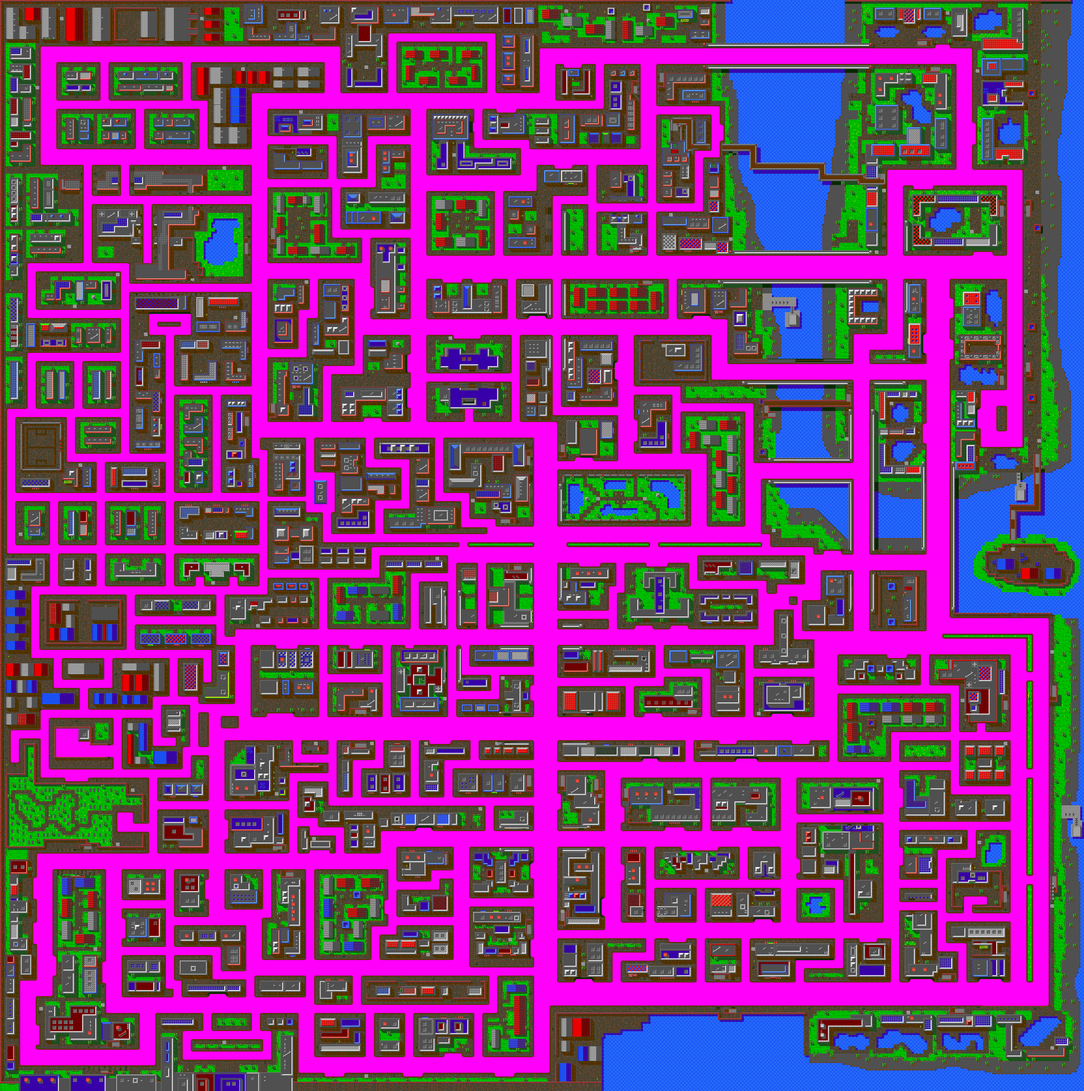
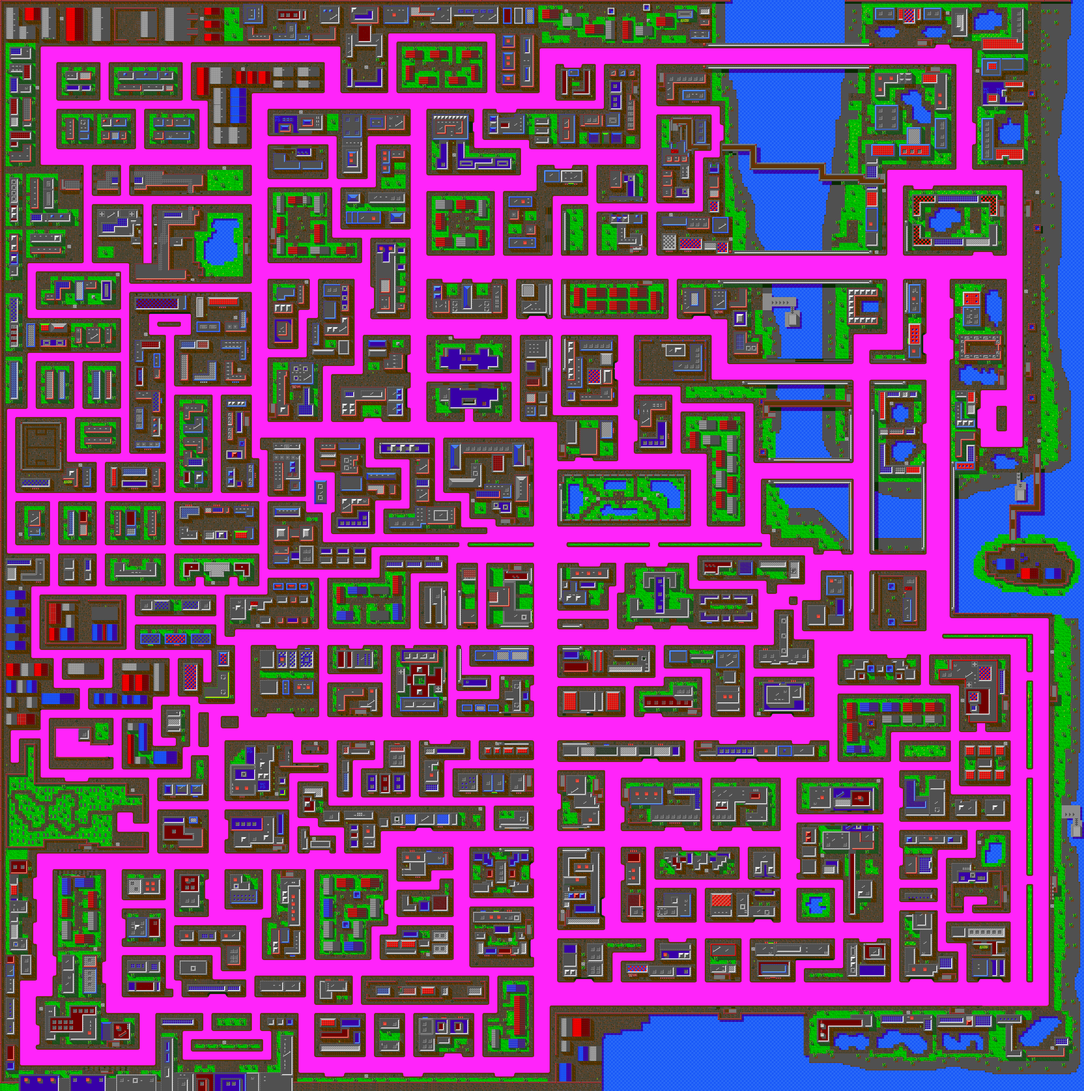
fix mascara ciudad vice city

Changed region(s): [[0.0, 0.0312, 0.9688, 1.0], [0.0, 0.25, 0.0312, 0.2812]]

diff --git a/editor/EditorMapas/creador.cpp b/editor/EditorMapas/creador.cpp
@@ -94,7 +94,7 @@ bool Creador::is_street(const QPoint& pos){
 
     qDebug() << "mask: "<< streetColor << ", pixel: "<<pixelColor;
 
-    int tolerance = 15; // tolerancia al color (opcional)
+    int tolerance = 30; // tolerancia al color (opcional)
     bool isStreet =
         std::abs(pixelColor.red() - streetColor.red()) < tolerance &&
         std::abs(pixelColor.green() - streetColor.green()) < tolerance &&
